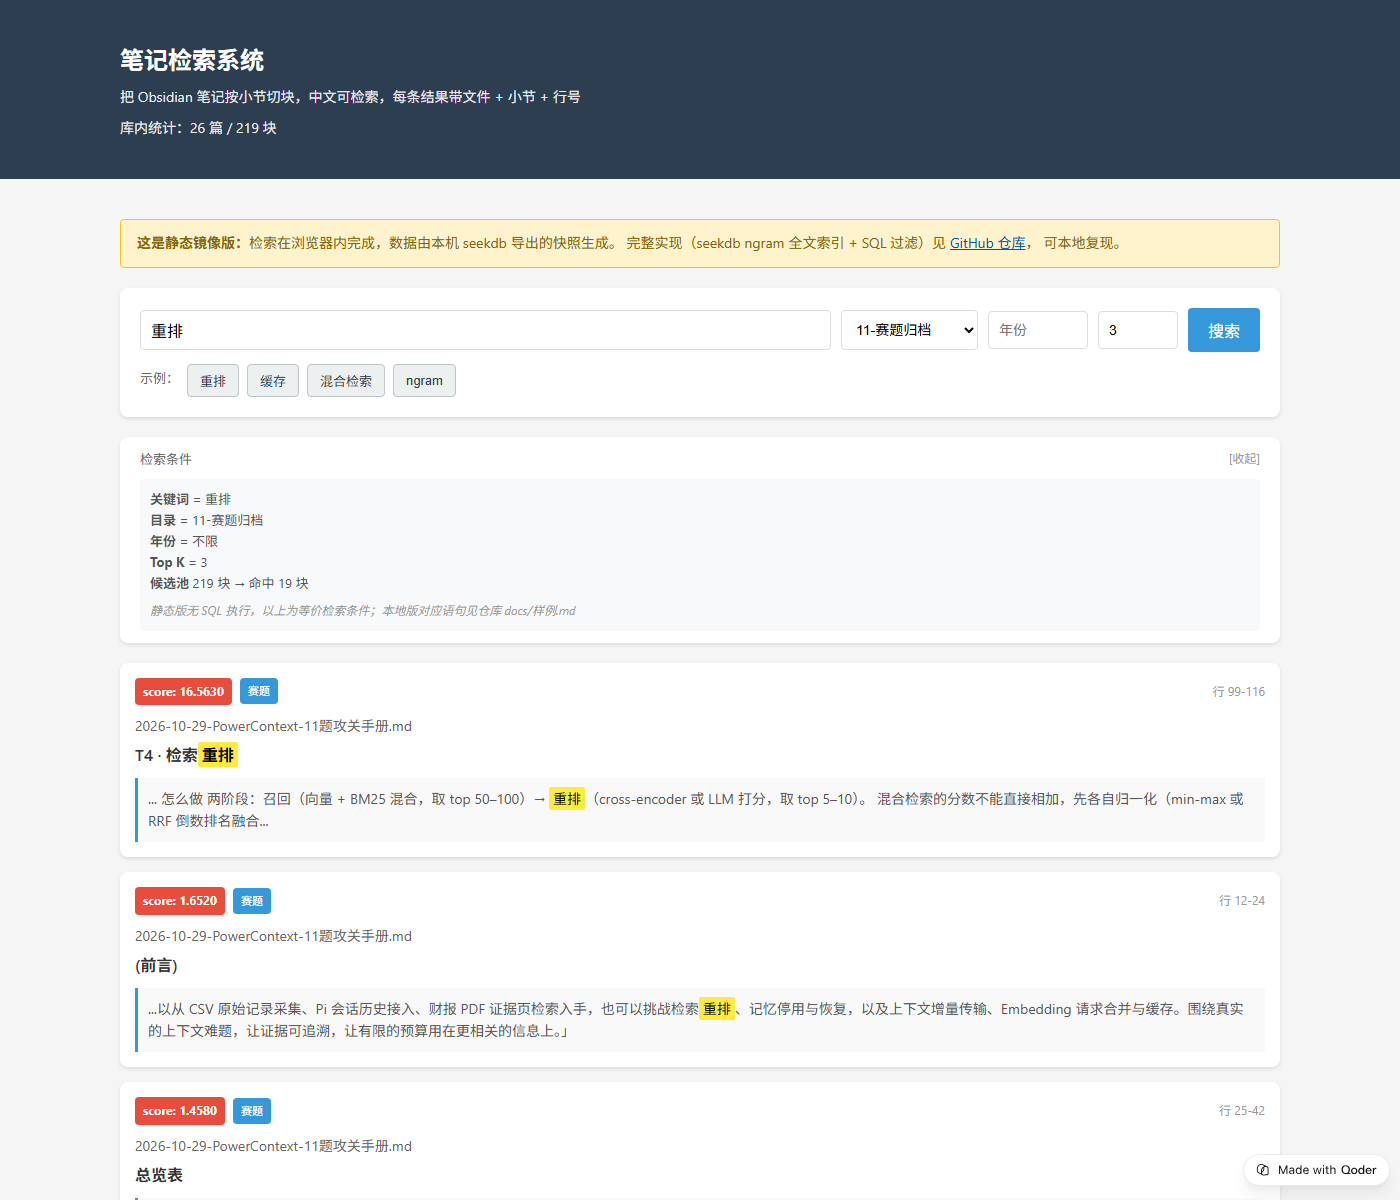
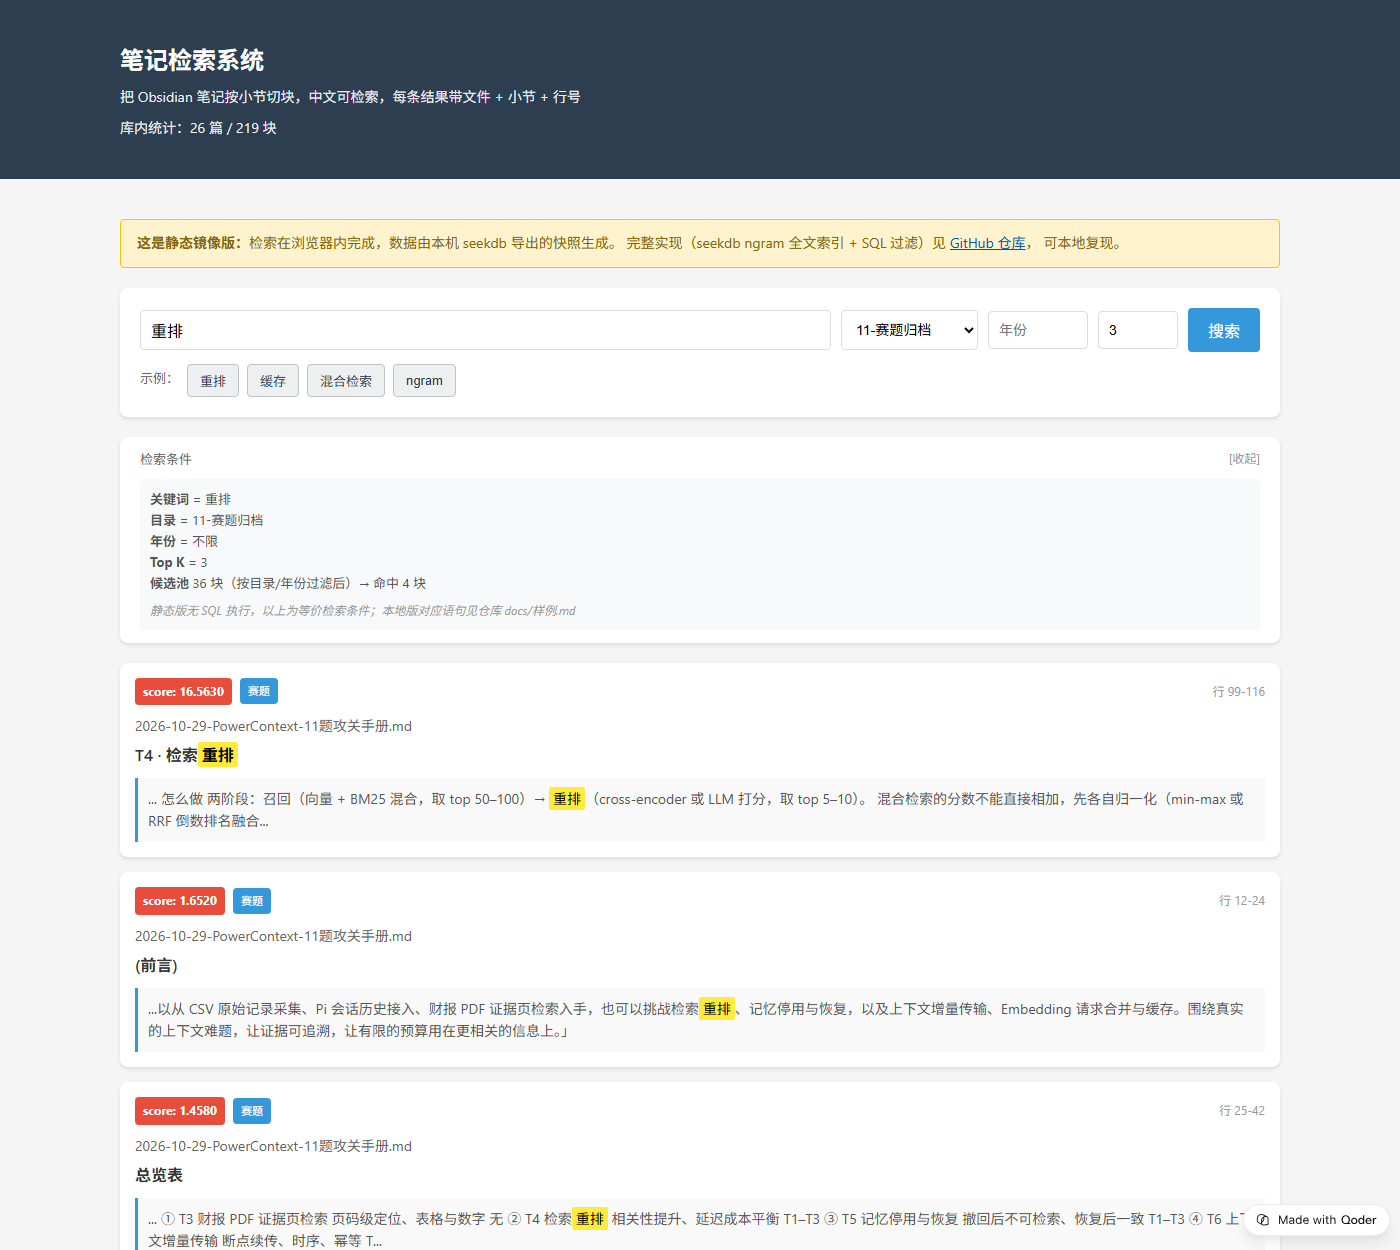
fix(qoder): 目录下拉改单选，条件面板候选池按过滤条件计算
- site/index.html：typeFilter 去掉 multiple，默认项「全部目录」，不再出现「已选择 0 项」
- site/app.js：候选池与命中数改为在目录/年份过滤后的池内统计
  （?q=重排&type=11-赛题归档 显示 36→4，此前误显示全库 219→19）
- README/docs/样例.md：同步修正被抄错的候选池数字，改为不做具体数字承诺
- docs/screenshots/web-online.png：按最终界面重截
- 12-提示词-阶段11-候选池口径修正.txt：本轮提示词留痕

diff --git a/qoder/site/app.js b/qoder/site/app.js
@@ -213,7 +213,7 @@ function updateConditionsPanel(keyword, filters, topK, matchedCount, totalCount)
     <div><strong>目录</strong> = ${escapeHtml(dirTypeText)}</div>
     <div><strong>年份</strong> = ${escapeHtml(yearText)}</div>
     <div><strong>Top K</strong> = ${topK}</div>
-    <div><strong>候选池</strong> ${totalCount} 块 → 命中 ${matchedCount} 块</div>
+    <div><strong>候选池</strong> ${totalCount} 块（按目录/年份过滤后）→ 命中 ${matchedCount} 块</div>
     <div class="note">静态版无 SQL 执行，以上为等价检索条件；本地版对应语句见仓库 docs/样例.md</div>
   `;
   panel.classList.add('active');
@@ -253,12 +253,16 @@ async function doSearch() {
 
   const results = searchChunks(q, filters, topK);
 
-  // 更新检索条件面板
-  const matchedCount = allChunks.filter(c =>
+  // 更新检索条件面板（候选池按目录/年份过滤后计算）
+  const pool = allChunks.filter(c =>
+    (!filters.dirType || c.dir_type === filters.dirType) &&
+    (!filters.year || c.year === filters.year)
+  );
+  const matchedCount = pool.filter(c =>
     c.content.toLowerCase().includes(q.toLowerCase()) ||
     c.heading.toLowerCase().includes(q.toLowerCase())
   ).length;
-  updateConditionsPanel(q, filters, topK, matchedCount, allChunks.length);
+  updateConditionsPanel(q, filters, topK, matchedCount, pool.length);
 
   if (results.length === 0) {
     document.getElementById('results').innerHTML = '<div class="empty">未找到结果</div>';

diff --git a/qoder/site/index.html b/qoder/site/index.html
@@ -27,7 +27,7 @@
   <div class="search-box">
     <div class="search-row">
       <input type="text" class="search-input" id="searchInput" placeholder="输入关键词搜索..." />
-      <select class="filter-select" id="typeFilter" multiple size="1">
+      <select class="filter-select" id="typeFilter">
         <option value="">全部目录</option>
         <option value="10-MOC与索引">10-MOC与索引</option>
         <option value="11-赛题归档">11-赛题归档</option>

diff --git a/qoder/docs/样例.md b/qoder/docs/样例.md
@@ -297,7 +297,8 @@ python -m uvicorn backend.app.main:app --host 127.0.0.1 --port 8000
 1. 打开在线地址，确认页面顶部有黄色免责声明横幅
 2. 在搜索框输入 `重排`，目录选择 `11-赛题归档`，Top K 填 `3`，点击搜索
 3. 预期结果：
-   - 检索条件面板显示：关键词 = 重排；目录 = 11-赛题归档；年份不限；Top 3；候选池 219 块 → 命中 19 块
+   - 检索条件面板显示：关键词 = 重排；目录 = 11-赛题归档；年份不限；Top 3；候选池 36 块（按目录/年份过滤后）→ 命中 4 块
+   （注：219 是全库块数，加目录过滤后候选池为 36）
    - 第一张卡片：score 约 14.0+，标题「T4 · 检索重排」，行 99-116
    - 关键词「重排」在标题和摘要中高亮显示
 4. 点击卡片展开原文，确认行号从 99 开始到 116 结束
